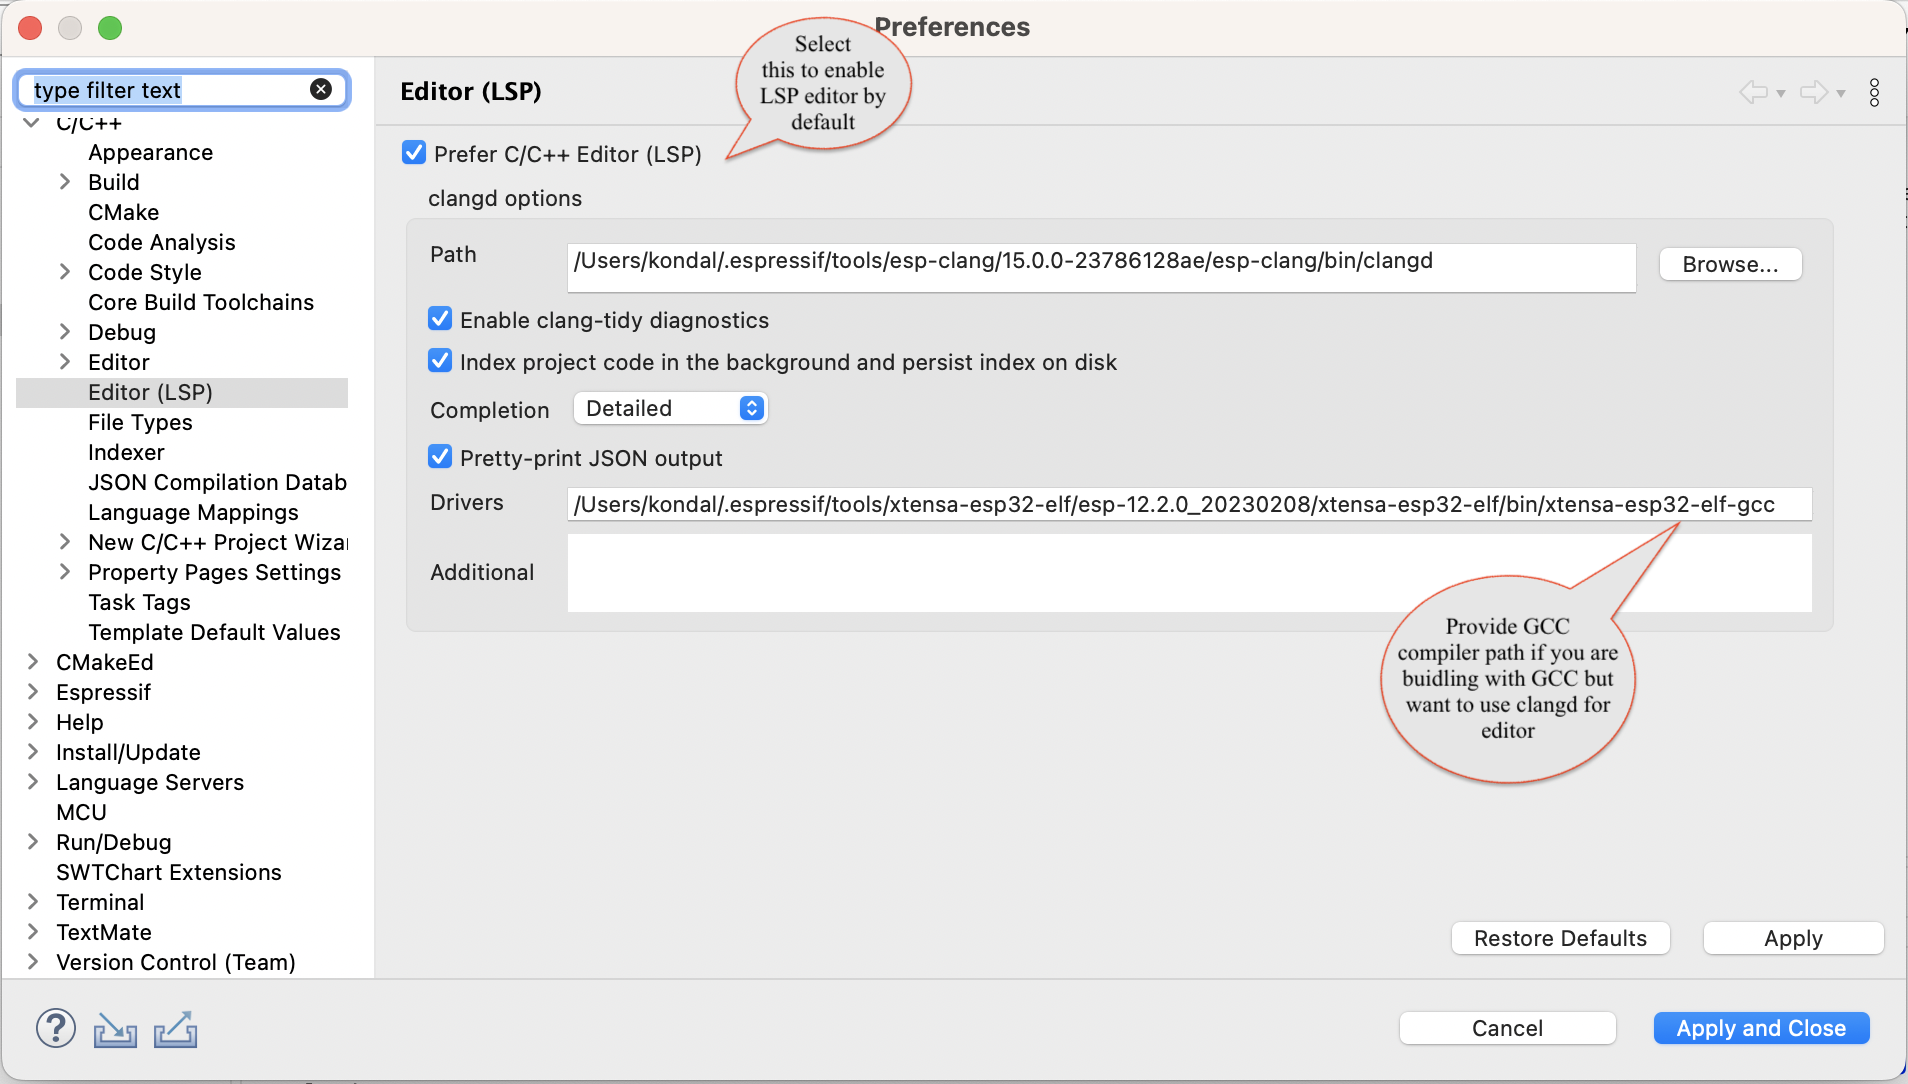
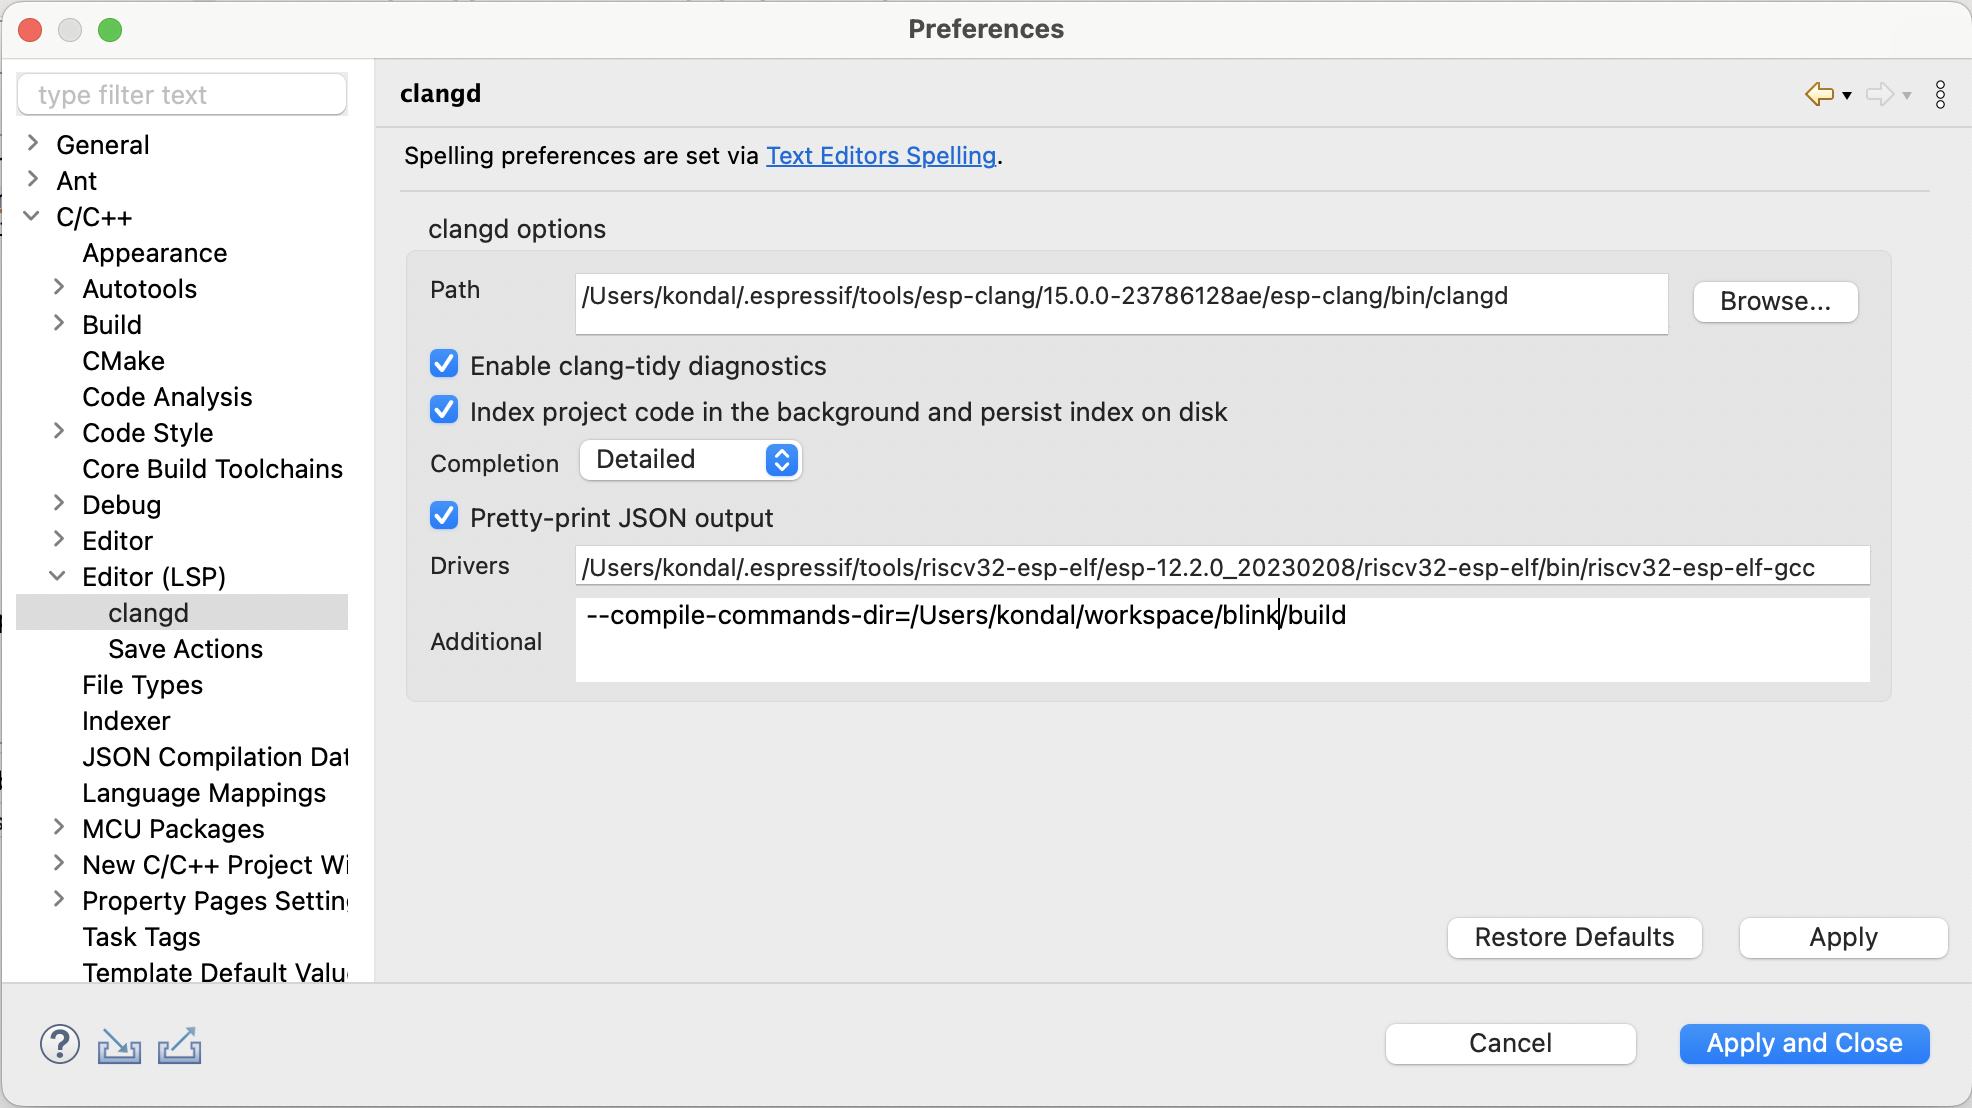
fix: improve the clangd documentation inline with 3.0.0 release

diff --git a/docs/clangd_cdt_support.md b/docs/clangd_cdt_support.md
@@ -2,55 +2,51 @@
 
 The Espressif-IDE 3.0.0 (and higher) now includes the [Eclipse CDT-LSP](https://github.com/eclipse-cdt/cdt-lsp/), enabling support for the latest C/C++ standards and providing an LSP-based C/C++ Editor. This editor, powered by the [LLVM](https://clangd.llvm.org/) clangd C/C++ language server, offers advanced functionality for ESP-IDF developers.
 
-In line with this enhancement, we've discontinued support for the standard CDT Editor/Indexer, as it only offers support for up to C++14. This change is significant, especially considering that ESP-IDF now utilizes C++20 (with GCC 11.2) in v5.0.x, transitioned to C++23 (with GCC 12.1) in v5.1 and C++23 with GCC 13.1 with v5.2.
+In line with this enhancement, we've discontinued support for the standard CDT Editor/Indexer, as it only offers support for up to C++ 14. This has been replaced with a new LSP editor, especially considering that ESP-IDF now utilizes C++ 20 (with GCC 11.2) in v5.0.x, transitions to C++ 23 (with GCC 12.1) in v5.1, and to C++ 23 with GCC 13.1 in v5.2
 
 The LSP powered C/C++ editor greatly benefits ESP-IDF developers by aligning with the latest language standards and compiler versions, enhancing productivity, and improving code quality.
 
+You can find more details on the LSP based C/C++ Editor features [here](https://github.com/eclipse-cdt/cdt-lsp/).
+
 ## Prerequisites
-1. Clangd is supported from [Espressif-IDE](https://github.com/espressif/idf-eclipse-plugin/blob/master/docs/Espressif-IDE.md#downloads) 3.0.0 and higher. 
-2. If you are updating via the update site, you need to select the ESP-IDF Eclipse Plugin and its dependencies, as shown below:
+- You need to have Espressif-IDE 3.0.0 (and higher) to have access to the LSP powered C/C++ editor. 
+- If you are updating Eclipse CDT or Espressif-IDE via the update site, you need to select the ESP-IDF Eclipse Plugin and its dependencies, as shown below:
 
  	![](images/clangd/cdtlsp_updatesite.png)
 
-## How to use Clangd in Espressif-IDE
-Espressif-IDE 3.0.0 higher offers the Clangd support. This includes default C/C++ LSP editor features and many other [features](https://github.com/eclipse-cdt/cdt-lsp/).
-
-
-
 ## Clangd Configuration
-To enable clangd in the C/C++ editor, follow the below steps.
+
+By default, the esp-clang toolchain is installed as a part of the ESP-IDF tools installation process, and clangd is configured in the preferences.
+
+Additionally, the user has to set the query **Drivers** path and **--compile-commands-dir** path in the additional argument section.
+
+Please follow the below steps to configure them:
 
 1. Go to `Window` > `Preferences` > `C/C++` > `Editor(LSP)`
-2. Enable `Prefer C/C++ Editor`
-3. Provide clangd `path` and `Drivers` path as shown below.
-4. Click on `Apply and Close`. This would enable the C/C++ editor with clangd support.
+2. Navigate to `clangd` node
+3. Provide `Drivers` path as shown in the screenshot.
+4. Set `--compile-commands-dir=/project/build`in the additional argument section.
+5. Click on `Apply and Close`.
 
  	![](images/clangd/clangd_config.png)
 
+By default, when you create a new project, a `.clangd` configuration file is created with the following arguments.
+
+However, if you are dealing with an existing project, please create a `.clangd` file at the root of the project and add the following content.
+
+```
+CompileFlags:
+  CompilationDatabase: build
+  Remove: [-m*, -f*]
+```	
+
 ## Disable CDT Indexer
-As we are going to use clangd as the indexer and for editor features, we need to disable CDT indexer.
+With Espressif-IDE 3.0.0 (and higher), the CDT Indexer is disabled by default; instead, the LSP Indexer server will be used for code analysis.
+
+If, for some reason, it is not disabled, please follow the steps below to disable it.
 
 1. Go to `Window` > `Preferences` > `C/C++` > `Indexer`
 2. Uncheck `Enable Indexer` option and then click on `Apply and Close`.
    
    
    ![](images/clangd/cdt_indexer_disable.png)
-
-## Clangd Editor
-1. Open any C/C++ file in the project.
-2. You should see the Clangd features in the editor.
-
- 	![](images/clangd/clangd_editor.png)
-3. You can also see the context help for the Clangd features.
-
- 	![](images/clangd/clangd_context_help.png)
-
-## Clangd Configuration File
-To avoid the errors in the editor, you need to create a `.clangd` file at the root of the project and the below settings.
-
-```
-CompileFlags:
-  Remove: [-fno-tree-switch-conversion, -fstrict-volatile-bitfields]
-
-```
-
